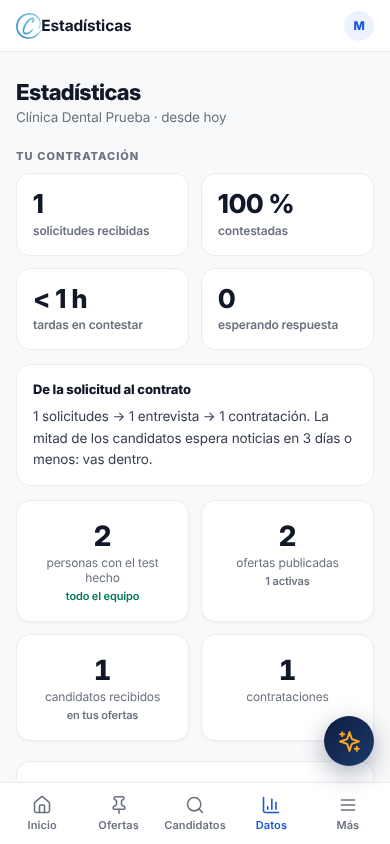
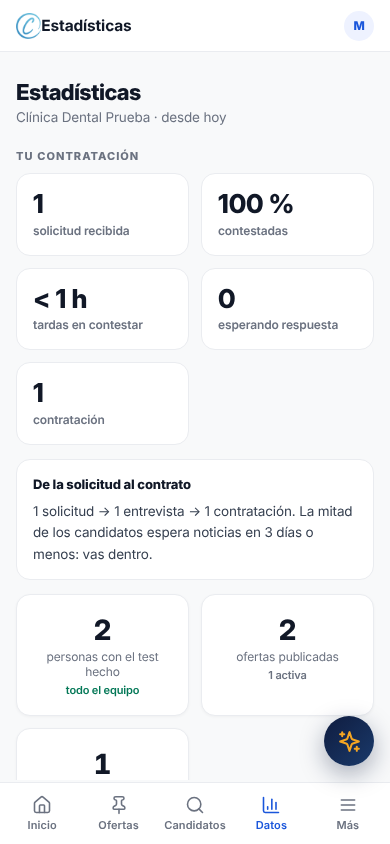
Estadísticas: las contrataciones se ven siempre y «Me interesa» cuenta como contestada
- «contrataciones» pasa a las cifras de «Tu contratación», que salen
  aunque el equipo aún no tenga tests (antes solo salía con tests del
  equipo); se quita del recuadro de abajo para no repetirla.
- «Me interesa» cuenta como respuesta en «contestadas», y quien la tiene
  ya no sale en «esperan tu respuesta».
- Textos: «contrataciónes» → «contrataciones», y singulares con 1
  («1 solicitud», «1 solicitud recibida», «1 oferta publicada»,
  «1 activa», «1 candidato recibido»).
Prueba nueva (61-estadisticas), que fallaba antes. Capturas de
Estadísticas actualizadas.

Claude-Session: https://claude.ai/code/session_01L5qSpH5ECCjMh1xfSpjWDJ

Changed region(s): [[0.0923, 0.4313, 0.8923, 0.8626], [0.2154, 0.2464, 0.3692, 0.2773], [0.2462, 0.8934, 0.2769, 0.9242]]

diff --git a/public/clinica/10-lo-que-pide-el-mercado.js b/public/clinica/10-lo-que-pide-el-mercado.js
@@ -49,7 +49,7 @@
   + '.mk-plan label:first-of-type{border-top:0;}'
   + '.mk-plan input{width:18px;height:18px;margin-top:1px;flex-shrink:0;accent-color:#059669;}'
   + '.mk-plan small{display:block;color:#6B7280;font-size:12px;}'
-  + '.mk-kpis{display:grid;grid-template-columns:repeat(4,minmax(0,1fr));gap:12px;margin-bottom:14px;}'
+  + '.mk-kpis{display:grid;grid-template-columns:repeat(4,minmax(0,1fr));gap:12px;margin-bottom:14px;}.mk-kpis.mk-5{grid-template-columns:repeat(5,minmax(0,1fr));}'
   + '.mk-kpi{background:#fff;border:1px solid #EAECF0;border-radius:14px;padding:16px;}'
   + '.mk-kpi b{display:block;font-size:26px;font-weight:800;color:#111827;line-height:1.1;}'
   + '.mk-kpi span{font-size:12px;font-weight:600;color:#6B7280;}'
@@ -69,7 +69,7 @@
   + '.cmp-t .mej{color:#047857;font-weight:800;}'
   + '.cmp-btn{border:1px solid #C9D6F5;background:#F5F8FF;color:#1A56DB;border-radius:10px;padding:9px 12px;font:inherit;font-size:13px;font-weight:700;cursor:pointer;}'
   + '.cmp-entry{display:inline-flex;align-items:center;gap:7px;border:1px solid #D5DAE1;background:#fff;color:#0F1C3F;border-radius:999px;padding:9px 14px;font:inherit;font-size:13px;font-weight:700;cursor:pointer;margin:0 0 12px;min-height:40px;}'
-  + '@media(max-width:720px){.mk-kpis{grid-template-columns:repeat(2,minmax(0,1fr));}#cmp-modal{padding:0;align-items:flex-end;}#cmp-modal .cmp{border-radius:18px 18px 0 0;max-height:94vh;}.cmp-t th,.cmp-t td{min-width:132px;}}';
+  + '@media(max-width:720px){.mk-kpis,.mk-kpis.mk-5{grid-template-columns:repeat(2,minmax(0,1fr));}#cmp-modal{padding:0;align-items:flex-end;}#cmp-modal .cmp{border-radius:18px 18px 0 0;max-height:94vh;}.cmp-t th,.cmp-t td{min-width:132px;}}';
   document.head.appendChild(css);
 
   /* =============== 1. OFERTA CLARA =============== */
@@ -370,9 +370,9 @@
     if(!l.length) return '';
     var resp = [], esperan = 0, entrev = 0, contr = 0, mot = {};
     l.forEach(function(c){
-      var h = (c.historial || []).filter(function(x){ return ['entrevista','descartada','contratada'].indexOf(x.estado) > -1; })[0];
+      var h = (c.historial || []).filter(function(x){ return ['interesa','entrevista','descartada','contratada'].indexOf(x.estado) > -1; })[0];
       if(h) resp.push((new Date(h.fecha) - new Date(c.fecha)) / 3600000);
-      if(c.estado === 'enviada' || c.estado === 'vista') esperan++;
+      if((c.estado === 'enviada' || c.estado === 'vista') && !c.interesa) esperan++;
       if((c.historial || []).some(function(x){ return x.estado === 'entrevista'; })) entrev++;
       if(c.estado === 'contratada') contr++;
       if(c.estado === 'descartada' && c.motivo) mot[c.motivo] = (mot[c.motivo] || 0) + 1;
@@ -381,13 +381,14 @@
     var base = resp.length + cerradas + esperan;
     var pct = base ? Math.round(resp.length / base * 100) : 0;
     var medio = resp.length ? resp.reduce(function(a,b){ return a+b; }, 0) / resp.length : null;
-    var h = '<div style="font-size:11px;font-weight:800;letter-spacing:.8px;color:#6B7280;margin:0 0 10px;">TU CONTRATACIÓN</div><div class="mk-kpis">'
-      + '<div class="mk-kpi"><b>'+l.length+'</b><span>solicitudes recibidas</span></div>'
+    var h = '<div style="font-size:11px;font-weight:800;letter-spacing:.8px;color:#6B7280;margin:0 0 10px;">TU CONTRATACIÓN</div><div class="mk-kpis mk-5">'
+      + '<div class="mk-kpi"><b>'+l.length+'</b><span>'+(l.length === 1 ? 'solicitud recibida' : 'solicitudes recibidas')+'</span></div>'
       + '<div class="mk-kpi"><b>'+pct+' %</b><span>contestadas</span></div>'
       + '<div class="mk-kpi"><b>'+(medio == null ? '—' : dur(medio))+'</b><span>tardas en contestar</span></div>'
       + '<div class="mk-kpi'+(esperan ? ' al' : '')+'"'+(esperan ? ' role="button" tabindex="0" style="cursor:pointer;" onclick="showScreen(\'portal\')" onkeydown="if(event.key===\'Enter\')showScreen(\'portal\')"' : '')+'><b>'+esperan+'</b><span>'+(esperan ? 'esperan tu respuesta · contestar' : 'esperando respuesta')+'</span></div>'
+      + '<div class="mk-kpi"><b>'+contr+'</b><span>'+(contr === 1 ? 'contratación' : 'contrataciones')+'</span></div>'
       + '</div>';
-    h += '<div class="mk-lin"><h4>De la solicitud al contrato</h4>'+l.length+' solicitudes → '+entrev+' entrevista'+(entrev === 1 ? '' : 's')+' → '+contr+' contratación'+(contr === 1 ? '' : 'es')+'.'
+    h += '<div class="mk-lin"><h4>De la solicitud al contrato</h4>'+l.length+(l.length === 1 ? ' solicitud → ' : ' solicitudes → ')+entrev+' entrevista'+(entrev === 1 ? '' : 's')+' → '+contr+' '+(contr === 1 ? 'contratación' : 'contrataciones')+'.'
       + (medio != null ? ' La mitad de los candidatos espera noticias en 3 días o menos: ' + (medio <= 72 ? 'vas dentro.' : 'ahora tardas más que eso.') : '') + '</div>';
     var ks = Object.keys(mot).sort(function(a,b){ return mot[b] - mot[a]; });
     if(ks.length){

diff --git a/pruebas/e2e/61-estadisticas.spec.js b/pruebas/e2e/61-estadisticas.spec.js
@@ -1,0 +1,71 @@
+// Estadísticas de la clínica: «Me interesa» cuenta como contestada y las
+// contrataciones se ven siempre, aunque el equipo aún no tenga tests.
+const { test, expect, nuevaVentana, vaciarEmulador } = require('../apoyo/entorno');
+const A = require('../apoyo/acciones');
+
+const OFERTA = (titulo) => ({ titulo, municipio: 'Girona', jornada: 'Completa · 40 h/semana', salarioMin: '22000', salarioMax: '26000',
+  contrato: 'Indefinido', convenio: 'Convenio colectivo de clínicas dentales de la provincia', horario: ['Mañanas'], tareas: ['Higienes y mantenimientos'], proceso: ['Entrevista'], requisitos: 'Titulación' });
+
+test('Estadísticas: «Me interesa» cuenta como contestada y las contrataciones se ven siempre', async ({ browser }, testInfo) => {
+  test.skip(testInfo.project.name !== 'ordenador', 'basta con un tamaño de pantalla');
+  await vaciarEmulador();
+  const vc = await nuevaVentana(browser, testInfo), vp = await nuevaVentana(browser, testInfo);
+  const c = vc.page, p = vp.page;
+  await A.registrarClinica(c, 'stats-clinica@prueba.es');
+  await A.configurarClinica(c, {}, { ...A.CLINICA, clinica: 'Clínica Cifras' });
+  await A.publicarOferta(c, OFERTA('Higienista A'));
+  await A.publicarOferta(c, OFERTA('Higienista B'));
+
+  await A.registrarProfesional(p, 'stats-pro@prueba.es');
+  await A.altaProfesional(p);
+  await p.check('#t-consent'); await p.getByRole('button', { name: 'Empezar el test' }).click();
+  await A.contestarTestProfesional(p, { pesos: { D: 1, I: 3, S: 2, C: 4 } });
+  await p.click('#tr-btn'); await p.locator('#gu-next').waitFor(); await p.evaluate(() => guiaCerrar());
+  for (const t of ['Higienista A', 'Higienista B']) {
+    await p.evaluate(() => ir('ofertas'));
+    await p.locator('.of-t', { hasText: new RegExp('^' + t + '$') }).locator('visible=true').first().click();
+    await p.getByRole('button', { name: 'Solicitar esta oferta' }).click();
+    await p.waitForTimeout(2100); await p.click('#m-btn');
+    await expect(p.getByText('Solicitud enviada').locator('visible=true').first()).toBeVisible();
+    await p.waitForTimeout(3500); // la web lleva sola al detalle de la solicitud
+  }
+
+  const cifras = c.locator('#mk-cifras');
+  const abrir = async (t) => {
+    await expect.poll(() => c.evaluate((t) => !!CERCO_candidaturas().find((x) => x.ofertaTitulo === t), t)).toBe(true);
+    await c.evaluate((t) => abrirFichaCandidato(CERCO_candidaturas().find((x) => x.ofertaTitulo === t).id), t);
+    await c.waitForTimeout(1500); // la ficha se vuelve a dibujar sola al abrirla (pasa a «vista»)
+  };
+  // «Me interesa» en A: es una respuesta (1 de 2 contestadas) y A ya no «espera respuesta»
+  await abrir('Higienista A');
+  await c.getByRole('button', { name: 'Me interesa', exact: true }).locator('visible=true').first().click();
+  await expect(c.getByText('pasa a «Me interesan»', { exact: false }).locator('visible=true').first()).toBeVisible();
+  await c.evaluate(() => showScreen('stats'));
+  await expect(cifras.locator('.mk-kpi', { hasText: 'contestadas' })).toContainText('50 %');
+  await expect(cifras.locator('.mk-kpi', { hasText: /esperan tu respuesta/ })).toContainText('1');
+  await expect(cifras.locator('.mk-kpi', { hasText: 'contrataciones' })).toContainText('0');
+
+  // Entrevista y contratación en A
+  await abrir('Higienista A');
+  await c.getByRole('button', { name: 'Invitar a entrevista' }).locator('visible=true').first().click();
+  await c.locator('[onclick^="_citaSet(\'dia\'"]').filter({ hasText: '12 nov' }).click();
+  await c.locator('[onclick="_citaSet(\'hora\',\'10:30\')"]').click();
+  await c.locator('[onclick="_citaSet(\'modo\',\'clinica\')"]').click();
+  await c.click('#cita-ok');
+  await abrir('Higienista A');
+  await c.getByRole('button', { name: 'Contratar' }).locator('visible=true').first().click();
+  await c.click('#hire-ok');
+  await c.waitForTimeout(1500);
+  await c.evaluate(() => showScreen('stats'));
+  await expect(cifras.locator('.mk-kpi', { hasText: 'contratación' })).toContainText('1');
+  await expect(cifras).toContainText('2 solicitudes → 1 entrevista → 1 contratación.');
+  await expect(c.locator('#screen-stats')).not.toContainText('contrataciónes');
+
+  // Sin ningún test del equipo, la contratación se sigue viendo
+  await c.evaluate(() => { localStorage.removeItem('cerco_disc_empresa'); localStorage.setItem('cerco_equipo', '[]'); renderStatsReal(); });
+  await expect(c.locator('#screen-stats')).toContainText('Falta la parte de tu equipo');
+  await expect(cifras.locator('.mk-kpi', { hasText: 'contratación' })).toContainText('1');
+
+  expect(c.erroresPagina).toEqual([]);
+  await vc.context.close(); await vp.context.close();
+});

diff --git a/public/clinica/01g-datos-de-la-clinica.js b/public/clinica/01g-datos-de-la-clinica.js
@@ -481,11 +481,11 @@ function _renderStatsRealBase(){
   }
 
   /* KPIs honestos: solo lo que podemos contar */
-  html += '<div style="display:grid;grid-template-columns:repeat(4,1fr);gap:12px;margin-bottom:20px;" class="stats-kpis">'
+  // (las contrataciones están arriba, en «Tu contratación», que sale siempre)
+  html += '<div style="display:grid;grid-template-columns:repeat(3,1fr);gap:12px;margin-bottom:20px;" class="stats-kpis">'
         + _kpiStat(eq.length, eq.length === 1 ? 'persona con el test hecho' : 'personas con el test hecho', r.pendientes ? r.pendientes+' pendientes' : 'todo el equipo', r.pendientes?'#D97706':'#059669')
-        + _kpiStat(r.ofertas, 'ofertas publicadas', r.activas + ' activas', '#6B7280')
-        + _kpiStat(r.candidatos, 'candidatos recibidos', r.candidatos ? 'en tus ofertas' : 'aún ninguno', '#6B7280')
-        + _kpiStat(r.contratados, 'contrataciones', r.contratados ? '' : 'aún ninguna', '#6B7280')
+        + _kpiStat(r.ofertas, r.ofertas === 1 ? 'oferta publicada' : 'ofertas publicadas', r.activas + (r.activas === 1 ? ' activa' : ' activas'), '#6B7280')
+        + _kpiStat(r.candidatos, r.candidatos === 1 ? 'candidato recibido' : 'candidatos recibidos', r.candidatos ? 'en tus ofertas' : 'aún ninguno', '#6B7280')
         + '</div>';
 
   /* composición real */
